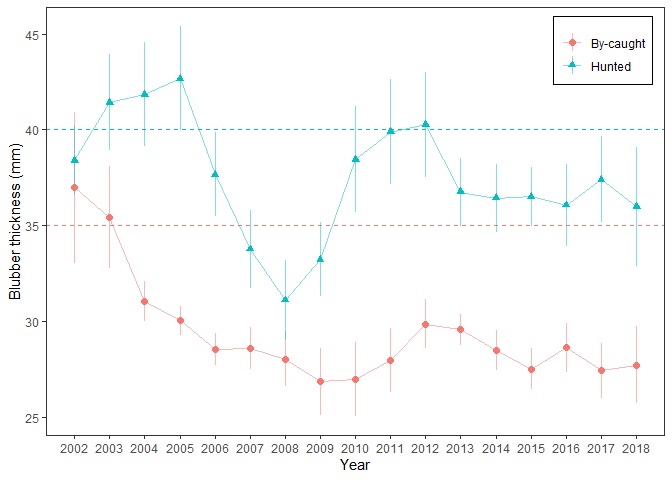
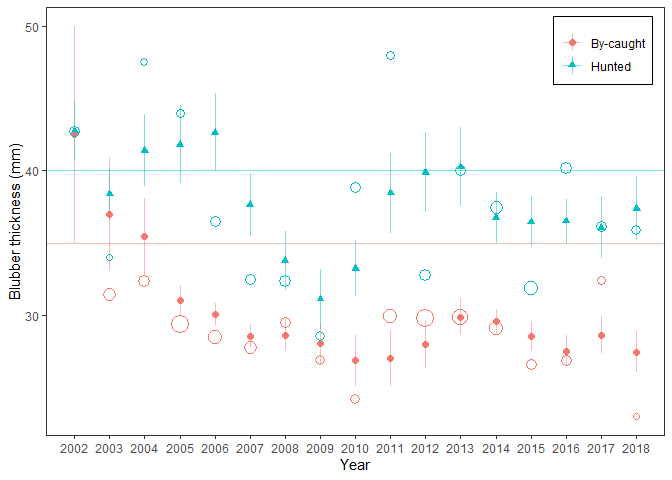
Adding moving average and yearly indices to all figs

diff --git a/README.md b/README.md
@@ -10,19 +10,19 @@ report. Data is read from an Excel sheet into R
 
 ``` r
 library(tidyverse)
-data <- readxl::read_excel("Blubber thickness seals 2020.xlsx", sheet = "Data") %>% 
+data_blubber <- readxl::read_excel("Blubber thickness seals 2020.xlsx", sheet = "Data", na = ".") %>% 
   janitor::clean_names() %>% 
   mutate(cause_of_death = tolower(cause_of_death),
          age_years = as.numeric(age_years)) %>% 
   filter(!is.na(blubber_mm)) %>% 
   select(year, month, age_years, blubber_mm, cause_of_death)
-glimpse(data)
+glimpse(data_blubber)
 ```
 
     ## Rows: 876
     ## Columns: 5
     ## $ year           <dbl> 2010, 2010, 2010, 2010, 2010, 2010, 2010, 2010, 2011...
-    ## $ month          <chr> "6", "11", "11", "11", "12", "5", "5", "10", "5", "5...
+    ## $ month          <dbl> 6, 11, 11, 11, 12, 5, 5, 10, 5, 5, 5, 5, 5, 9, 11, 4...
     ## $ age_years      <dbl> 1, 3, 2, 1, 3, 3, 2, 3, 1, 1, 2, 2, 2, 3, 3, 1, 1, 2...
     ## $ blubber_mm     <dbl> 25, 30, 35, 40, 40, 45, 50, 60, 30, 30, 30, 30, 30, ...
     ## $ cause_of_death <chr> "hunted", "hunted", "by-caught", "hunted", "hunted",...
@@ -31,10 +31,10 @@ we extract seals caught in August-October, of 1-3 years and remove the
 ones found stranded.
 
 ``` r
-sub_data <- filter(data,
-                   month %in% 8:12,
-                   age_years >= 1, age_years <=3,
-                   cause_of_death != "stranded")
+sub_data_blubber <- filter(data_blubber,
+                           month %in% 8:12,
+                           age_years >= 1, age_years <=3,
+                           cause_of_death != "stranded")
 ```
 
 According to the caption, the figure in the report shows three-year
@@ -46,53 +46,55 @@ second interpretation. The function `get_mov_means` computes the moving
 averages and standard errors for each cause of death a given year.
 
 ``` r
-get_mov_mean <- function(data, y){
-  filter(data, year %in% (y - 1):(y + 1)) %>% 
-    group_by(cause_of_death, year) %>% 
-    summarise(mean_blub = mean(blubber_mm),
-              n_blub = n(),
-              var_blub_mean = var(blubber_mm)/n_blub
-    ) %>% 
-    group_by(cause_of_death) %>% 
-    summarise(mov_mean = mean(mean_blub),
-              n = n(),
-              se = sqrt(sum(var_blub_mean)) / n) %>% 
-    mutate(year = y) %>% 
-    ungroup() %>% 
-    na.omit()
+get_mov_means <- function(data, years, variable, group = NULL){
+  map_df(years, function(y){
+    filter(data, year %in% (y - 2):(y), !is.na({{ variable }})) %>% 
+      group_by({{ group }}, year) %>% 
+      summarise(y_mean = mean({{ variable }}),
+                y_n = n(),
+                y_var = var({{ variable }})/y_n
+      ) %>% 
+      group_by({{ group }}) %>% 
+      summarise(mov_mean = mean(y_mean),
+                y_mean = y_mean[n()],
+                n = y_n[n()],
+                se = sqrt(sum(y_var)) / n()) %>% 
+      mutate(year = y) %>% 
+      ungroup()
+  }
+  )
 }
 ```
 
 We are now ready to summarise data by
 
 ``` r
-years <- 2002:2018
-summary_data <- map_df(years, ~get_mov_mean(sub_data, .x)) %>% 
+summary_blubber <- get_mov_means(sub_data_blubber, 2002:2018, blubber_mm, cause_of_death) %>% 
   left_join(tibble(cause_of_death = c("by-caught", "hunted"), threshold = c(35, 40)),
             by = "cause_of_death")
-glimpse(summary_data)
+glimpse(summary_blubber)
 ```
 
     ## Rows: 34
-    ## Columns: 6
+    ## Columns: 7
     ## $ cause_of_death <chr> "by-caught", "hunted", "by-caught", "hunted", "by-ca...
-    ## $ mov_mean       <dbl> 36.97727, 38.37500, 35.41818, 41.41667, 31.02929, 41...
-    ## $ n              <int> 2, 2, 3, 3, 3, 3, 3, 3, 3, 3, 3, 3, 3, 3, 3, 3, 3, 3...
-    ## $ se             <dbl> 3.9520499, 1.8251305, 2.6659331, 2.5182535, 1.028371...
+    ## $ mov_mean       <dbl> 42.50000, 42.75000, 36.97727, 38.37500, 35.41818, 41...
+    ## $ y_mean         <dbl> 42.50000, 42.75000, 31.45455, 34.00000, 32.30000, 47...
+    ## $ n              <int> 2, 8, 11, 3, 10, 4, 24, 5, 13, 8, 12, 8, 8, 10, 6, 6...
+    ## $ se             <dbl> 7.5000000, 1.9977666, 3.9520499, 1.8251305, 2.665933...
     ## $ year           <int> 2002, 2002, 2003, 2003, 2004, 2004, 2005, 2005, 2006...
     ## $ threshold      <dbl> 35, 40, 35, 40, 35, 40, 35, 40, 35, 40, 35, 40, 35, ...
 
 where also the different thresholds are added. Now we are ready to plot
 
 ``` r
-summary_data %>% 
-  ggplot(aes(x = year, y = mov_mean, color = cause_of_death, shape = cause_of_death)) +
-  geom_hline(aes(yintercept = threshold, color = cause_of_death), 
-             linetype = 2, show.legend = FALSE, size = .7) +
-  geom_line(alpha = .5) +
+fig_blubber <- summary_blubber %>% 
+  ggplot(aes(x = year, color = cause_of_death, shape = cause_of_death)) +
+  geom_hline(aes(yintercept = threshold, color = cause_of_death), alpha = .5) +
   geom_linerange(aes(ymin = mov_mean - se, ymax = mov_mean + se), alpha = .5)+
-  geom_point(size = 2) +
-  scale_x_continuous(breaks = 2002:2019) + theme_bw() +
+  geom_point(aes(y = mov_mean), size = 2) +
+  geom_point(aes(y = y_mean, size = n), pch = 21, show.legend = FALSE) +
+  scale_x_continuous(breaks = 2002:2018) + theme_bw() +
   ylab("Blubber thickness (mm)") + xlab("Year") + 
   theme(panel.grid.minor = element_blank(), 
         panel.grid.major = element_blank(), 
@@ -100,9 +102,15 @@ summary_data %>%
         legend.position = c(.9, .9), legend.background = element_rect(color = "black")) +
   scale_color_discrete(labels = c("By-caught", "Hunted")) +
   scale_shape_discrete(labels = c("By-caught", "Hunted"))
+ggsave(fig_blubber, filename = "blubber.png", height = 6, width = 7)
+knitr::include_graphics("blubber.png")
 ```
 
-![](README_files/figure-gfm/unnamed-chunk-5-1.png)<!-- -->
+<img src="blubber.png" width="2100" />
+
+where the symbols show three-year running means with standard errors and
+the circles yearly means with area proportional to the number of
+observations they are based on.
 
 # Reproductive status of seals
 
@@ -112,11 +120,11 @@ seals](https://www.helcom.fi/wp-content/uploads/2019/08/Reproductive-status-of-s
 report. Data is read from an Excel sheet into R
 
 ``` r
-data <- readxl::read_excel("Reproductive data update 2020 Finland and Sweden.xlsx", 
+data_rep <- readxl::read_excel("Reproductive data update 2020 Finland and Sweden.xlsx", 
                            sheet = "Data", na = ".") %>% 
   janitor::clean_names() %>% 
   select(country, year, reproductive_year, month, pregnancy_rate, gestation, ppp)
-glimpse(data)
+glimpse(data_rep)
 ```
 
     ## Rows: 249
@@ -130,65 +138,109 @@ glimpse(data)
     ## $ ppp               <dbl> NA, NA, NA, NA, NA, NA, NA, NA, NA, NA, NA, NA, N...
 
 We filter out Swedish seals caught in July since the can’t be classified
-correctly and years ouside of the interval 2011-2018
+correctly and years ouside of the interval 2011-2019
 
 ``` r
-sub_data <- filter(data, !((country == "Sverige") & (month == 7)),
-                   year %in% 2011:2018)
+sub_data_rep <- filter(data_rep, !((country == "Sverige") & (month == 7)),
+                   year %in% 2011:2019)
 ```
 
 compute yearly summaries of the indicators
 
 ``` r
-summary_data <- sub_data %>% 
-  group_by(year) %>%
-  summarise(`Gestation rate` = mean(gestation, na.rm = TRUE),
-            n_gestation = sum(!is.na(gestation)),
-            `Pregnancy signs rate` = mean(ppp, na.rm = TRUE),
-            n_ppp = sum(!is.na(ppp)),
-            `Pregnancy rate (combined)` = mean(pregnancy_rate, na.rm = TRUE),
-            n_pregnancy_rate = sum(!is.na(pregnancy_rate))
-  )
-glimpse(summary_data)
+summary_rep <- bind_rows(
+  mutate(get_mov_means(sub_data_rep, 2011:2019, ppp), label = "Post partum pregnancy signs rate"),
+  mutate(get_mov_means(sub_data_rep, 2011:2019, gestation), label = "Gestation rate"),
+  mutate(get_mov_means(sub_data_rep, 2011:2019, pregnancy_rate), label = "Pregnancy rate (combined)"),
+)
+glimpse(summary_rep)
 ```
 
-    ## Rows: 8
-    ## Columns: 7
-    ## $ year                        <dbl> 2011, 2012, 2013, 2014, 2015, 2016, 201...
-    ## $ `Gestation rate`            <dbl> 0.7777778, 0.5000000, 1.0000000, 1.0000...
-    ## $ n_gestation                 <int> 9, 6, 7, 6, 18, 18, 9, 3
-    ## $ `Pregnancy signs rate`      <dbl> 0.7600000, 0.8695652, 0.6000000, 0.9600...
-    ## $ n_ppp                       <int> 25, 23, 5, 50, 8, 4, 13, 15
-    ## $ `Pregnancy rate (combined)` <dbl> 0.7647059, 0.7931034, 0.8333333, 0.9642...
-    ## $ n_pregnancy_rate            <int> 34, 29, 12, 56, 26, 22, 22, 18
-
-Before plotting we convert to long format
-
-``` r
-plot_data <- summary_data %>% 
-  select(-starts_with("n_")) %>% 
-  pivot_longer(-year, names_to = "indicator", values_to = "value")
-```
+    ## Rows: 27
+    ## Columns: 6
+    ## $ mov_mean <dbl> 0.7600000, 0.8147826, 0.7431884, 0.8098551, 0.8533333, 0.7...
+    ## $ y_mean   <dbl> 0.7600000, 0.8695652, 0.6000000, 0.9600000, 1.0000000, 0.2...
+    ## $ n        <int> 25, 23, 5, 50, 8, 4, 13, 15, 5, 9, 6, 7, 6, 18, 18, 9, 3, ...
+    ## $ se       <dbl> 0.08717798, 0.05647018, 0.08991077, 0.08559543, 0.08218115...
+    ## $ year     <int> 2011, 2012, 2013, 2014, 2015, 2016, 2017, 2018, 2019, 2011...
+    ## $ label    <chr> "Post partum pregnancy signs rate", "Post partum pregnancy...
 
 and plot
 
 ``` r
-plot_data %>% ggplot(aes(x = year, y = 100*value, color = indicator)) + 
-  geom_hline(yintercept = 90, linetype = 2) +
-  geom_point(size = 2, alpha = .8) + 
-  geom_line(data = filter(plot_data, indicator == "Pregnancy rate (combined)"), 
-            alpha = .5, show.legend = FALSE) +
-  ylim(c(0, 100)) + theme_bw() +
-  theme(panel.grid.minor = element_blank(), 
-        panel.grid.major = element_blank(), 
-        legend.title = element_blank(),
-        legend.position = c(.25, .15), 
-        legend.background = element_rect(color = "black")) +
-  xlab("Year") + ylab("%")
+fig_rep1 <- summary_rep %>% ggplot(aes(x = year)) + 
+  geom_point(aes(y = mov_mean)) + 
+  geom_line(aes(y = mov_mean)) + 
+  geom_linerange(aes(ymax = mov_mean + se, ymin = mov_mean - se)) + 
+  geom_hline(yintercept = .9, linetype = 2) +
+  geom_point(aes(y = y_mean, size = n), pch = 21, show.legend = FALSE) +
+  facet_wrap(~label, ncol = 3) + ylim(c(0, 1)) + 
+  theme_bw() +  scale_x_continuous(breaks = 2011:2019) +
+  theme(panel.grid.minor.x = element_blank(), panel.grid.major.x = element_blank()) + 
+  xlab("") + ylab("Proportion")
+ggsave(fig_rep1, filename = "fig_rep1.png", width = 9, height = 6, type = "cairo")
+knitr::include_graphics("fig_rep1.png")
 ```
 
-![](README_files/figure-gfm/unnamed-chunk-10-1.png)<!-- -->
+<img src="fig_rep1.png" width="2700" />
 
-Note that the *Pregnancy rate (combined)* differs from the report’s
-*combined indicator* in the sense that equal weight is given to all
-seals in a year rather than to yearly country indices.
+Note that the numeber of observations vary widely between years. Since
+the running mean gives equal weight to yearly means, years with very few
+observations may largely influence the moving mean. A better idea is
+probably to give equal weights to observations in the three-year window,
+this requires an updated function
+
+``` r
+get_mov_means2 <- function(data, years, variable, group = NULL){
+  map_df(years, function(y){
+    filter(data, year %in% (y - 2):(y), !is.na({{ variable }})) %>% 
+      group_by({{ group }}) %>% 
+      summarise(mov_mean = mean({{ variable }}),
+                y_mean = mean({{ variable }}[year == y]),
+                n = length({{ variable }}[year == y]),
+                se = sd({{ variable }})/sqrt(n())) %>% 
+      mutate(year = y) %>% 
+      ungroup()
+  }
+  )
+}
+```
+
+which is applied as before
+
+``` r
+summary_rep <- bind_rows(
+  mutate(get_mov_means2(sub_data_rep, 2011:2019, ppp), label = "Post partum pregnancy signs rate"),
+  mutate(get_mov_means2(sub_data_rep, 2011:2019, gestation), label = "Gestation rate"),
+  mutate(get_mov_means2(sub_data_rep, 2011:2019, pregnancy_rate), label = "Pregnancy rate (combined)"),
+)
+glimpse(summary_rep)
+```
+
+    ## Rows: 27
+    ## Columns: 6
+    ## $ mov_mean <dbl> 0.7600000, 0.8125000, 0.7924528, 0.9102564, 0.9365079, 0.9...
+    ## $ y_mean   <dbl> 0.7600000, 0.8695652, 0.6000000, 0.9600000, 1.0000000, 0.2...
+    ## $ n        <int> 25, 23, 5, 50, 8, 4, 13, 15, 5, 9, 6, 7, 6, 18, 18, 9, 3, ...
+    ## $ se       <dbl> 0.08717798, 0.05693291, 0.05623976, 0.03257154, 0.03096846...
+    ## $ year     <int> 2011, 2012, 2013, 2014, 2015, 2016, 2017, 2018, 2019, 2011...
+    ## $ label    <chr> "Post partum pregnancy signs rate", "Post partum pregnancy...
+
+and plot
+
+``` r
+fig_rep2 <- summary_rep %>% ggplot(aes(x = year)) + 
+  geom_point(aes(y = mov_mean)) + 
+  geom_line(aes(y = mov_mean)) + 
+  geom_linerange(aes(ymax = mov_mean + se, ymin = mov_mean - se)) + 
+  geom_hline(yintercept = .9, linetype = 2) +
+  geom_point(aes(y = y_mean, size = n), pch = 21, show.legend = FALSE) +
+  facet_wrap(~label, ncol = 3) + ylim(c(0, 1)) + 
+  theme_bw() +  scale_x_continuous(breaks = 2011:2019) +
+  theme(panel.grid.minor.x = element_blank(), panel.grid.major.x = element_blank()) + 
+  xlab("") + ylab("Proportion")
+ggsave(fig_rep2, filename = "fig_rep2.png", width = 9, height = 6, type = "cairo")
+knitr::include_graphics("fig_rep2.png")
+```
+
+<img src="fig_rep2.png" width="2700" />
